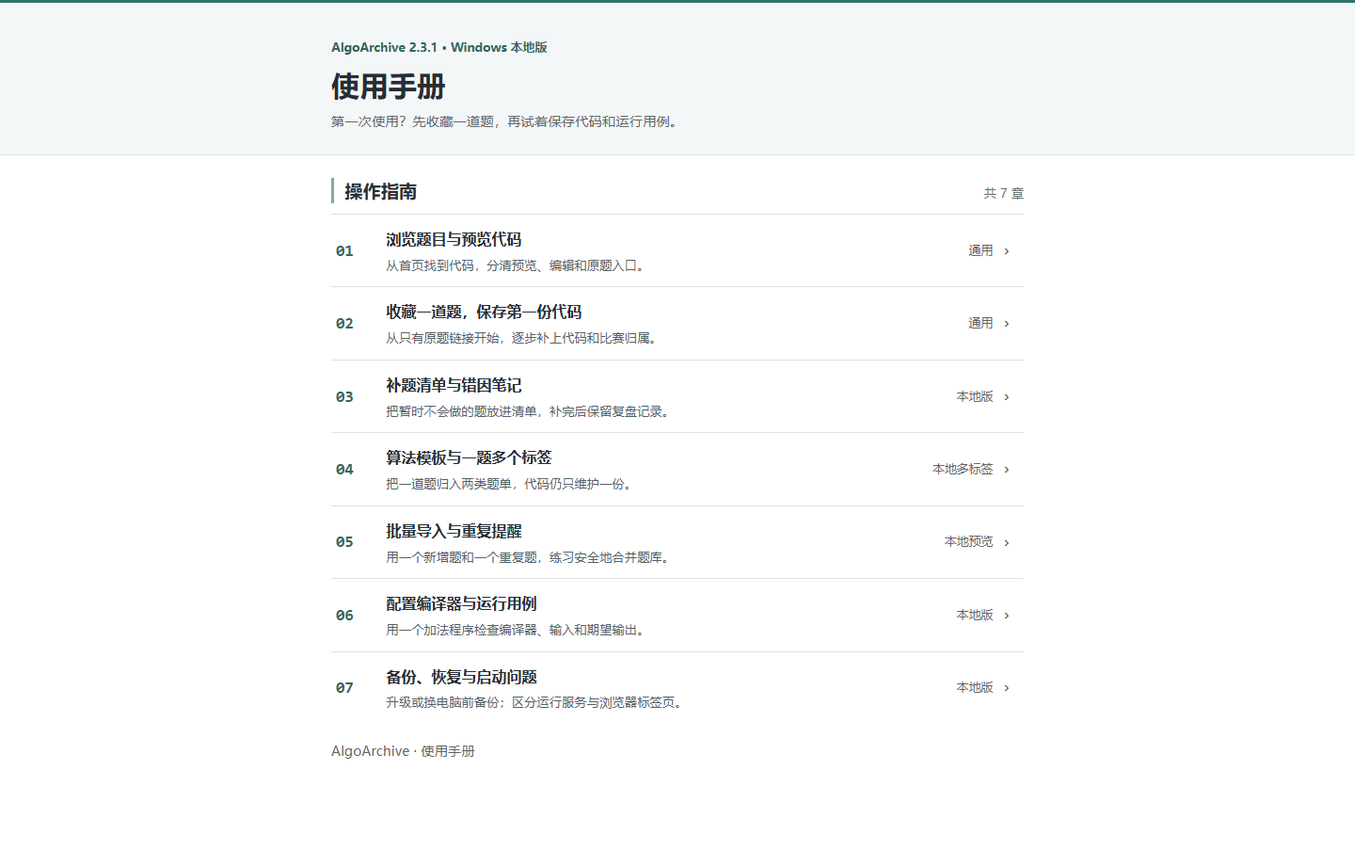
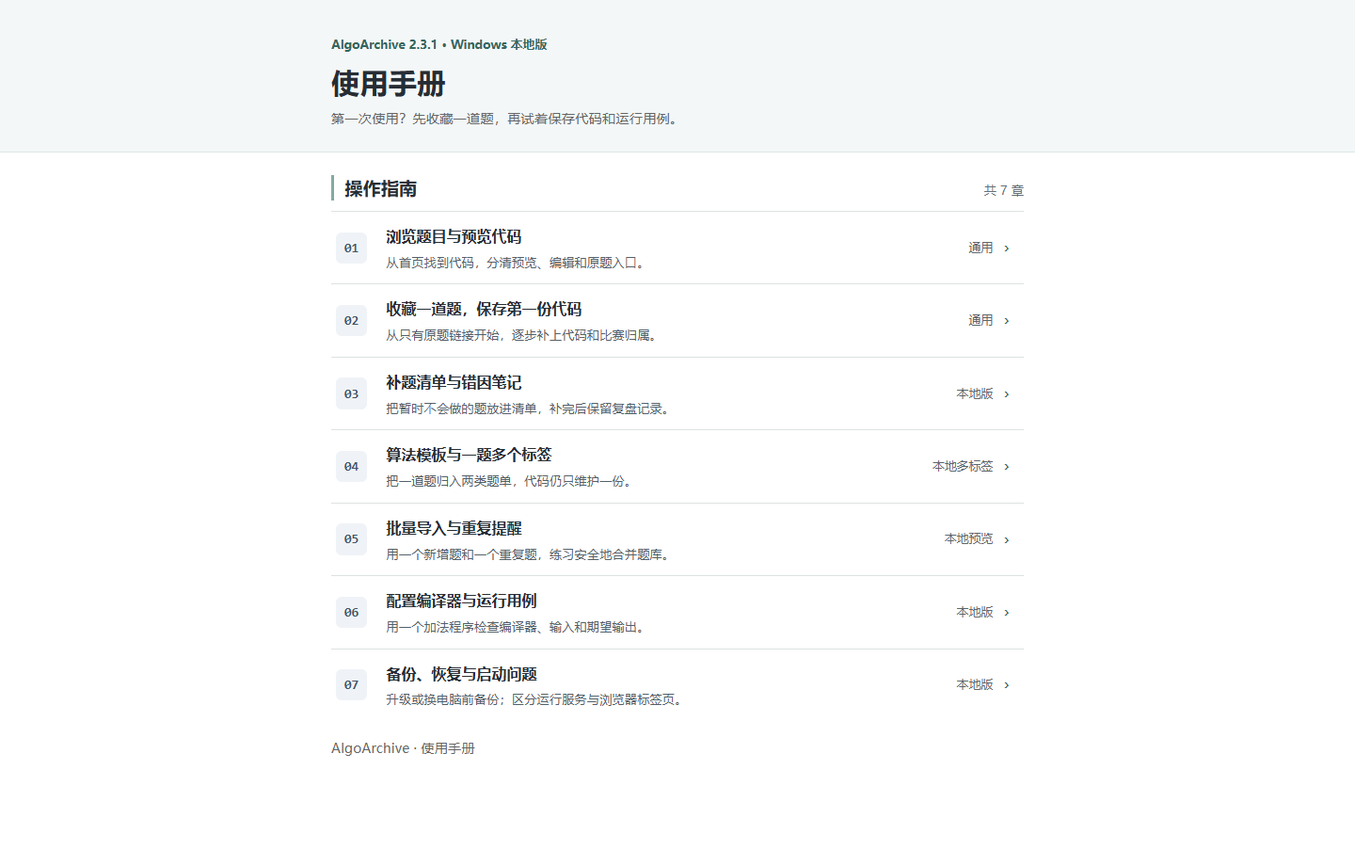
Expand the compiler walkthrough and clarify external judge boundaries

diff --git a/web/guide/test.html b/web/guide/test.html
@@ -1,11 +1,31 @@
 <!doctype html>
 <html lang="zh-CN"><head><meta charset="utf-8"><meta name="viewport" content="width=device-width, initial-scale=1">
-<title>配置编译器与运行用例 · AlgoArchive 使用手册</title><link rel="stylesheet" href="../manual.css?v=guide-2"><link rel="icon" href="../favicon-32.png"></head>
-<body><a class="skip" href="#main">跳到正文</a><header><div class="wrap"><a class="bread" href="../manual.html">‹ 使用手册</a><p class="edition">第 06 章 / 07 · 本地版</p><h1>配置编译器与运行用例</h1><p>用一个加法程序检查编译器、输入和期望输出。</p></div></header>
-<main id="main" class="wrap article"><h2>配置一次编译器</h2><p>在「设置 → 编译器」选择本机 MinGW 的 <code>bin/g++.exe</code>。下载的编译器压缩包要先完整解压；选择可执行文件后保存设置。</p><h2>运行第一组测试</h2><ol><li>在题目编辑页填入下面的 C++ 程序，或在「代码试跑」临时尝试。</li><li>添加一组用例：输入 <code>2 3</code>，期望输出 <code>5</code>。运行当前用例，查看实际输出与比较结果。</li><li>再添加输入 <code>-2 2</code>、期望输出 <code>0</code>，运行全部。题目里要保留用例时点「保存用例」；已有 CPH 数据可导入 <code>.prob</code> 文件。</li></ol><pre><code>#include &lt;iostream&gt;
+<title>配置编译器与运行用例 · AlgoArchive 使用手册</title><link rel="stylesheet" href="../manual.css?v=guide-3"><link rel="icon" href="../favicon-32.png"></head>
+<body><a class="skip" href="#main">跳到正文</a>
+<header><div class="wrap"><a class="bread" href="../manual.html">‹ 使用手册</a><p class="edition">第 06 章 / 07 · Windows 本地版</p>
+<h1>配置编译器与运行用例</h1><p>从找到 g++.exe，到亲手跑通第一组输入输出。</p></div></header>
+<main id="main" class="wrap article">
+<h2>找到真正用于编译的 g++.exe</h2>
+<p>已经用 VS Code 写 C++？可以和 AlgoArchive 共用一套 MinGW。打开 PowerShell，输入 <code>where.exe g++</code> 查看系统 PATH 里有哪些编译器。出现多个路径时，选与你的 VS Code 构建任务一致的那个；没有输出只表示它不在 PATH 中。</p>
+<p>还没有编译器时，可从项目 GitHub Release 下载单独的 MinGW-w64 压缩包。完整解压后找到 <code>mingw64\bin\g++.exe</code>。例如解压在 <code>D:\Tools</code> 下时，实际路径可能是 <code>D:\Tools\mingw64\bin\g++.exe</code>；以资源管理器里的位置为准。</p>
+<h2>在设置里保存并验证</h2>
+<ol><li>点左下角「设置」，进入编译器设置，找到「C++ 编译与运行」。已显示「可用」时，可点「复制实际路径」，确认是不是你想用的版本。</li>
+<li>在「g++ 可执行文件路径」中填入完整文件路径，不要填 ZIP、文件夹或一条编译命令。要使用 PATH 中的 g++，把路径框留空。</li>
+<li>初次配置可保留默认的 <code>gnu++14</code>。点「保存编译器设置」，检查实际路径和版本，然后点「编译能力检查」看结果。</li></ol>
+<h2>用一组小数据验证整个流程</h2>
+<p>打开左侧「代码试跑」并输入下面的程序。试跑草稿独立于题库，不必为了检查配置创建一道新题。</p>
+<pre><code>#include &lt;iostream&gt;
 int main() {
     int a, b;
     std::cin &gt;&gt; a &gt;&gt; b;
     std::cout &lt;&lt; a + b &lt;&lt; '\n';
-}</code></pre><aside><b>运行失败先看哪儿？</b>编译失败先检查编译器路径和错误行；程序能运行但结果不符，先核对输入与期望输出。真实交互题还需要交互器，固定回放只能验证那次对话。</aside></main>
-<nav class="wrap pager" aria-label="章节导航"><a rel="prev" href="import.html">‹ 上一章：批量导入与重复提醒</a><a rel="next" href="backup.html">下一章：备份、恢复与启动问题 ›</a></nav></body></html>
+}</code></pre>
+<ol><li>第一组输入填 <code>2 3</code>，期望输出填 <code>5</code>，运行当前用例。查看实际输出是否为 <code>5</code>。</li>
+<li>再添加一组：输入 <code>-2 2</code>，期望输出 <code>0</code>，运行全部。两组均通过，就验证了编译、读入、运行和输出比较。</li>
+<li>在正式题目的编辑页，点「保存用例」可供下次复测；已有的 CPH 用例可从 <code>.prob</code> 文件导入。</li></ol>
+<h2>按现象排查</h2>
+<dl><dt>显示「未找到 C++ 编译器」</dt><dd>核对填的是 <code>g++.exe</code> 文件本身。优先填写绝对路径；如果刚修改过系统 PATH，请重启本地程序再检查。</dd>
+<dt>能找到 g++，但编译提示缺少程序或 DLL</dt><dd>不要单独复制 g++.exe。重新完整解压工具链，保留 bin、lib、libexec 等目录的相对位置，再运行能力检查。</dd>
+<dt>能编译，但用例不通过</dt><dd>先读实际输出。如果题目只要一个数字，请去掉「请输入」之类的提示语，再检查换行、输入顺序和算法结果。</dd>
+<dt>在在线演示里找不到本机编译器</dt><dd>演示页可以读写示例代码，不能调用你电脑上的 g++。请在 Windows 本地版执行本章步骤。</dd></dl>
+</main><nav class="wrap pager" aria-label="章节导航"><a rel="prev" href="import.html">‹ 上一章：批量导入与重复提醒</a><a rel="next" href="backup.html">下一章：备份、恢复与启动问题 ›</a></nav></body></html>

diff --git a/web/guide/browse.html b/web/guide/browse.html
@@ -1,6 +1,9 @@
 <!doctype html>
 <html lang="zh-CN"><head><meta charset="utf-8"><meta name="viewport" content="width=device-width, initial-scale=1">
-<title>浏览题目与预览代码 · AlgoArchive 使用手册</title><link rel="stylesheet" href="../manual.css?v=guide-2"><link rel="icon" href="../favicon-32.png"></head>
+<title>浏览题目与预览代码 · AlgoArchive 使用手册</title><link rel="stylesheet" href="../manual.css?v=guide-3"><link rel="icon" href="../favicon-32.png"></head>
 <body><a class="skip" href="#main">跳到正文</a><header><div class="wrap"><a class="bread" href="../manual.html">‹ 使用手册</a><p class="edition">第 01 章 / 07 · 通用</p><h1>浏览题目与预览代码</h1><p>从首页找到代码，分清预览、编辑和原题入口。</p></div></header>
-<main id="main" class="wrap article"><h2>试一次：打开首页第一道题</h2><ol><li>回到首页，在「最近编辑」找到一道题。在线演示的第一题是 <b>Tatami Renovation</b>。</li><li>点行首的序号或这一行的空白处，代码预览会弹出。点「复制代码」可取得整份源码；按 <kbd>Esc</kbd> 或点「关闭」返回原位置。</li><li>要修改这道题，点右侧「编辑」。要阅读比赛平台的题面，点题名或「原题」。</li></ol><h2>按比赛查题</h2><p>从左侧平台或比赛进入题目列表。题名前的 A、B 等编号按比赛理解；不同比赛的 A 题并不是同一道题。查看题名和所属比赛再编辑。</p><aside><b>看到「暂无代码」？</b>这表示题库暂时只收录了题目链接，可以照常打开原题。在线演示首页的 A–F 六题都有代码，其中 F 的用例是固定交互回放。</aside><h2>通过 Virtual Judge 查题或提交</h2><p>首页或此处的 <a href="https://vjudge.net/" target="_blank" rel="noopener noreferrer">Virtual Judge ↗</a> 仅打开第三方网站。请在该站自行查题、登录和提交；AlgoArchive 与其无合作关系，不会代为抓取题目或传送你的账号、代码和用例。</p></main>
+<main id="main" class="wrap article"><h2>试一次：打开首页第一道题</h2><ol><li>回到首页，在「最近编辑」找到一道题。在线演示的第一题是 <b>Tatami Renovation</b>。</li><li>点行首的序号或这一行的空白处，代码预览会弹出。点「复制代码」可取得整份源码；按 <kbd>Esc</kbd> 或点「关闭」返回原位置。</li><li>要修改这道题，点右侧「编辑」。要阅读比赛平台的题面，点题名或「原题」。</li></ol><h2>按比赛查题</h2><p>从左侧平台或比赛进入题目列表。题名前的 A、B 等编号按比赛理解；不同比赛的 A 题并不是同一道题。查看题名和所属比赛再编辑。</p><aside><b>看到「暂无代码」？</b>这表示题库暂时只收录了题目链接，可以照常打开原题。在线演示首页的 A–F 六题都有代码，其中 F 的用例是固定交互回放。</aside>
+<h2>前往 Virtual Judge 查题或提交</h2>
+<p>首页的 <a href="https://vjudge.net/" target="_blank" rel="noopener noreferrer">Virtual Judge ↗</a> 会在新标签页打开第三方官网，原来的编辑页保持打开。请在该站自行登录、查找题目、选择语言并提交代码；评测结果也在该站查看。</p>
+<p>AlgoArchive 与 Virtual Judge 无隶属、合作或授权关系。入口不会附带当前题目、源码、用例或账号凭据，也不会自动抓题、代交代码或把评测结果写回本地补题状态。</p></main>
 <nav class="wrap pager" aria-label="章节导航"><a href="../manual.html">‹ 手册目录</a><a rel="next" href="archive.html">下一章：收藏一道题，保存第一份代码 ›</a></nav></body></html>

diff --git a/web/app.js b/web/app.js
@@ -555,7 +555,7 @@
     main.innerHTML = pageHeader('算法档案','在本地整理比赛、题目与算法模板，让积累清晰可见。',addContestButton()+addProblemButton()+addAlgorithmButton(),'WORKSPACE / 本地工作空间') +
       `<section class="stats-grid" aria-label="题库统计"><article class="stat-card"><div class="stat-label">完整比赛</div><span class="stat-mark">▦</span><div class="stat-value">${state.contests.length}</div><div class="stat-note">已保存的完整比赛</div></article><article class="stat-card"><div class="stat-label">全部题目</div><span class="stat-mark blue">≡</span><div class="stat-value">${state.problems.length}</div><div class="stat-note">统一题库，实时同步</div></article><article class="stat-card"><div class="stat-label">Codeforces</div><span class="stat-mark platform-stat-mark">${platformLogo('codeforces')}</span><div class="stat-value">${cf}</div><div class="stat-note">${platformContestCount('codeforces')} 场比赛 · ${cf} 道题目</div></article><article class="stat-card"><div class="stat-label">AtCoder</div><span class="stat-mark platform-stat-mark">${platformLogo('atcoder')}</span><div class="stat-value">${ac}</div><div class="stat-note">${platformContestCount('atcoder')} 场比赛 · ${ac} 道题目</div></article><article class="stat-card"><div class="stat-label">AcWing</div><span class="stat-mark platform-stat-mark">${platformLogo('acwing')}</span><div class="stat-value">${aw}</div><div class="stat-note">${platformContestCount('acwing')} 场比赛 · ${aw} 道题目</div></article><article class="stat-card"><div class="stat-label">洛谷</div><span class="stat-mark platform-stat-mark">${platformLogo('luogu')}</span><div class="stat-value">${lg}</div><div class="stat-note">${platformContestCount('luogu')} 场比赛 · ${lg} 道题目</div></article><article class="stat-card"><div class="stat-label">牛客</div><span class="stat-mark platform-stat-mark">${platformLogo('niuke')}</span><div class="stat-value">${nc}</div><div class="stat-note">${platformContestCount('niuke')} 场比赛 · ${nc} 道题目</div></article></section>` +
       `<section class="home-intro"><span class="home-intro-icon" aria-hidden="true">{ }</span><div class="intro-copy"><h2>一份代码，多种整理方式。</h2><p>比赛中的题目会自动收录到全部题目；从任意入口修改，始终保存同一份解答。</p></div><button class="btn" data-nav="problems">打开全部题目 <span aria-hidden="true">→</span></button></section>` +
-      `<aside class="external-judge" aria-label="第三方评测"><a href="https://vjudge.net/" target="_blank" rel="noopener noreferrer">Virtual Judge ↗</a><span>第三方评测网站，与 AlgoArchive 无合作关系。查题与提交请前往该站自行操作。</span></aside>`+
+      `<aside class="external-judge" aria-label="第三方在线评测服务"><a href="https://vjudge.net/" target="_blank" rel="noopener noreferrer">Virtual Judge ↗</a><span>第三方网站，与 AlgoArchive 无隶属、合作或授权关系。登录、查题与提交均由你在该站完成。</span></aside>`+
       (localStudy?studyQueue():'')+
       `<section class="home-section recent-section"><div class="section-head">${sectionTitle('document','最近编辑')}<a href="#problems" data-nav="problems">查看全部 →</a></div><div class="panel">${problemTable(sortedProblems(state.problems).slice(0,6))}</div></section>`+
       `<section class="home-section algorithm-home-section"><div class="section-head">${sectionTitle('layers','最近的算法模板')}<a href="#algorithms" data-nav="algorithms">管理算法 →</a></div>${algorithmCards(sortedAlgorithms(state.algorithms).slice(0,3))}</section>`+

diff --git a/web/manual.css b/web/manual.css
@@ -2,7 +2,7 @@
 html { color: #272d34; background: #fff; font: 16px/1.8 system-ui, "Microsoft YaHei", sans-serif; }
 body { margin: 0; }
 .wrap { width: min(100% - 40px, 46rem); margin-inline: auto; }
-header { background: #f3f7f8; border-top: 3px solid #31736b; border-bottom: 1px solid #dee6e5; }
+header { background: #f3f7f8; border-bottom: 1px solid #dee6e5; }
 header .wrap { padding: 28px 0 22px; }
 h1 { margin: 0; font-size: 1.9rem; line-height: 1.4; }
 header p, footer { color: #666; font-size: .9rem; }
@@ -18,14 +18,21 @@ nav strong { display: block; margin-bottom: 3px; }
 .directory a { display:grid; grid-template-columns:2.6em minmax(0,1fr) auto 1em; gap:12px; align-items:center; padding:12px 5px; border-top:1px solid #dce3e2; text-decoration:none; color:inherit; }
 .directory a:hover,.directory a:focus-visible { background:#f1f6f5; }
 .directory small { display:block; color:#53616a; line-height:1.55; }
-.num { font:600 1.05rem Consolas,monospace; }
+.num { display:grid; place-items:center; width:2.3em; height:2.3em; border-radius:6px; background:#eff3f7; color:#3e566d; font:600 .9rem Consolas,monospace; }
 .mode { color:#5c666d; }
 .arrow,.bread { color:#35665e; }
 .article { padding:12px 0 22px; }
 .article h2 { margin-top:24px; }
 .article aside { margin-top:18px; padding:12px 16px; background:#faf5e9; border-left:3px solid #ba9547; }
-.article pre { overflow-x:auto; padding:14px; background:#f2f5f6; line-height:1.5; }
-.article pre code { padding:0; }
+.article ol { list-style:none; counter-reset:steps; padding:0; }
+.article li { position:relative; padding:4px 0 7px 2.3em; counter-increment:steps; }
+.article li::before { content:counter(steps); position:absolute; left:0; top:.4em; display:grid; place-items:center; width:1.65em; height:1.65em; background:#e9f2ee; color:#356359; border-radius:50%; font-size:.84rem; font-weight:650; }
+.article pre { overflow-x:auto; padding:16px 18px; border-radius:6px; background:#24333e; color:#eff5f6; line-height:1.6; }
+.article pre code { padding:0; background:transparent; }
+.article :not(pre) > code { overflow-wrap:anywhere; }
+.article dl { border-block:1px solid #dce3e2; padding:4px 0 12px; }
+.article dt { font-weight:650; margin-top:10px; }
+.article dd { margin:2px 0 0; color:#47535d; }
 .article figure { margin:24px 0 0; }
 .article figure img { display:block; width:100%; height:auto; border:1px solid #dce3e2; }
 .pager { flex-wrap:wrap; border-top:1px solid #dce3e2; border-bottom:0; }
@@ -46,7 +53,7 @@ footer { padding: 16px 0 30px; }
 .skip:focus { top: 4px; }
 @media (max-width: 540px) {
   .wrap { width: calc(100% - 32px); }
-  .directory a { grid-template-columns:1.6em minmax(0,1fr) auto; gap:8px; }
+  .directory a { grid-template-columns:2.3em minmax(0,1fr) auto; gap:8px; }
   .directory .arrow { display:none; }
   header .wrap { padding-top: 22px; }
 }

diff --git a/web/guide/import.html b/web/guide/import.html
@@ -1,6 +1,6 @@
 <!doctype html>
 <html lang="zh-CN"><head><meta charset="utf-8"><meta name="viewport" content="width=device-width, initial-scale=1">
-<title>批量导入与重复提醒 · AlgoArchive 使用手册</title><link rel="stylesheet" href="../manual.css?v=guide-2"><link rel="icon" href="../favicon-32.png"></head>
+<title>批量导入与重复提醒 · AlgoArchive 使用手册</title><link rel="stylesheet" href="../manual.css?v=guide-3"><link rel="icon" href="../favicon-32.png"></head>
 <body><a class="skip" href="#main">跳到正文</a><header><div class="wrap"><a class="bread" href="../manual.html">‹ 使用手册</a><p class="edition">第 05 章 / 07 · 本地预览</p><h1>批量导入与重复提醒</h1><p>用一个新增题和一个重复题，练习安全地合并题库。</p></div></header>
 <main id="main" class="wrap article"><h2>先看预览，再决定是否导入</h2><ol><li>在「全部题目」点「导入」，下载示例 JSON。按示例填写平台、题名、原题链接和需要的代码或用例；每批最多 200 题。</li><li>选择文件并预览。准备两条记录来试：一条沿用库中某题的原题链接，另一条用全新的题号和链接。查看哪些被标为已有、哪些是新增。</li><li>已有题默认跳过。只需要改题面资料时选「只更新资料」，核对变更后再确认。只有确实要覆盖源代码或用例时，才选择相应的更新方式。</li></ol><h2>核对导入结果</h2><p>重新打开原题查看源码和用例，再搜索新题。前者应保留你选择保留的部分；后者只出现一次。若提示记录已变化，重新预览，不要重复提交旧预览。</p><aside><b>别仅靠 A、B 判断重复。</b>不同比赛可能都从 A 开始编号。无法唯一匹配的行先跳过，核对原题链接和比赛后再导入。</aside><figure><a href="media/import.webp"><img src="media/import.webp" loading="lazy" alt="本地导入预览，逐行选择是否更新"></a><figcaption>本地导入预览，逐行选择是否更新 · 点击图片查看大图</figcaption></figure></main>
 <nav class="wrap pager" aria-label="章节导航"><a rel="prev" href="tags.html">‹ 上一章：算法模板与一题多个标签</a><a rel="next" href="test.html">下一章：配置编译器与运行用例 ›</a></nav></body></html>

diff --git a/web/guide/review.html b/web/guide/review.html
@@ -1,6 +1,6 @@
 <!doctype html>
 <html lang="zh-CN"><head><meta charset="utf-8"><meta name="viewport" content="width=device-width, initial-scale=1">
-<title>补题清单与错因笔记 · AlgoArchive 使用手册</title><link rel="stylesheet" href="../manual.css?v=guide-2"><link rel="icon" href="../favicon-32.png"></head>
+<title>补题清单与错因笔记 · AlgoArchive 使用手册</title><link rel="stylesheet" href="../manual.css?v=guide-3"><link rel="icon" href="../favicon-32.png"></head>
 <body><a class="skip" href="#main">跳到正文</a><header><div class="wrap"><a class="bread" href="../manual.html">‹ 使用手册</a><p class="edition">第 03 章 / 07 · 本地版</p><h1>补题清单与错因笔记</h1><p>把暂时不会做的题放进清单，补完后保留复盘记录。</p></div></header>
 <main id="main" class="wrap article"><h2>练习：记录一个二分边界问题</h2><ol><li>在题目行点「编辑」，把「补题状态」从「未做」改为「待补」。没有源码的题也可以这样标记。</li><li>在错因笔记中写下可复查的一句话，例如「找最后一个 ≤ x 的位置时，区间只剩两个数会死循环」。保存题目。</li><li>回首页，在补题清单选择所属比赛。确认这道题出现在列表里。</li></ol><h2>补完后怎么找回？</h2><p>回编辑页，把状态改为「已通过」并保存。它会移出待补队列；在「全部题目」按状态筛选，仍能找到原代码和笔记。</p><aside><b>状态由你决定。</b>运行本地用例不会替你更改状态，这个标记也不会向比赛平台提交代码。</aside><figure><a href="media/study.webp"><img src="media/study.webp" loading="lazy" alt="本地首页的待补清单和比赛筛选"></a><figcaption>本地首页的待补清单和比赛筛选 · 点击图片查看大图</figcaption></figure></main>
 <nav class="wrap pager" aria-label="章节导航"><a rel="prev" href="archive.html">‹ 上一章：收藏一道题，保存第一份代码</a><a rel="next" href="tags.html">下一章：算法模板与一题多个标签 ›</a></nav></body></html>

diff --git a/web/guide/backup.html b/web/guide/backup.html
@@ -1,6 +1,6 @@
 <!doctype html>
 <html lang="zh-CN"><head><meta charset="utf-8"><meta name="viewport" content="width=device-width, initial-scale=1">
-<title>备份、恢复与启动问题 · AlgoArchive 使用手册</title><link rel="stylesheet" href="../manual.css?v=guide-2"><link rel="icon" href="../favicon-32.png"></head>
+<title>备份、恢复与启动问题 · AlgoArchive 使用手册</title><link rel="stylesheet" href="../manual.css?v=guide-3"><link rel="icon" href="../favicon-32.png"></head>
 <body><a class="skip" href="#main">跳到正文</a><header><div class="wrap"><a class="bread" href="../manual.html">‹ 使用手册</a><p class="edition">第 07 章 / 07 · 本地版</p><h1>备份、恢复与启动问题</h1><p>升级或换电脑前备份；区分运行服务与浏览器标签页。</p></div></header>
 <main id="main" class="wrap article"><h2>保留一个可以恢复的备份</h2><ol><li>打开「设置 → 数据管理」，创建完整 ZIP 备份，记下文件位置与生成时间。</li><li>换电脑时，把 ZIP 复制到新电脑，在本地版导入备份。恢复会替换当前题库；如果目标电脑已有数据，先给它也做一份备份。</li><li>恢复后核对题目数，打开一题检查源码、用例、补题状态和错因笔记。</li></ol><h2>关闭页面后，程序还在运行吗？</h2><p>浏览器标签页只是界面。双击桌面程序时，已有服务会复用；没有可见服务窗口时可出现一个状态窗口。关闭状态窗口不会关闭后台服务。需要退出时，在「设置 → 关于与诊断」停止服务。</p><aside><b>升级后看不到原题库？</b>先在设置里核对当前数据目录。程序目录和题库目录可能不同，不要把刚解压的安装目录当成数据目录恢复。</aside></main>
 <nav class="wrap pager" aria-label="章节导航"><a rel="prev" href="test.html">‹ 上一章：配置编译器与运行用例</a><a href="../manual.html">返回目录 ›</a></nav></body></html>

diff --git a/web/guide/archive.html b/web/guide/archive.html
@@ -1,6 +1,6 @@
 <!doctype html>
 <html lang="zh-CN"><head><meta charset="utf-8"><meta name="viewport" content="width=device-width, initial-scale=1">
-<title>收藏一道题，保存第一份代码 · AlgoArchive 使用手册</title><link rel="stylesheet" href="../manual.css?v=guide-2"><link rel="icon" href="../favicon-32.png"></head>
+<title>收藏一道题，保存第一份代码 · AlgoArchive 使用手册</title><link rel="stylesheet" href="../manual.css?v=guide-3"><link rel="icon" href="../favicon-32.png"></head>
 <body><a class="skip" href="#main">跳到正文</a><header><div class="wrap"><a class="bread" href="../manual.html">‹ 使用手册</a><p class="edition">第 02 章 / 07 · 通用</p><h1>收藏一道题，保存第一份代码</h1><p>从只有原题链接开始，逐步补上代码和比赛归属。</p></div></header>
 <main id="main" class="wrap article"><h2>从原题链接开始</h2><ol><li>在左侧打开目标平台，点「添加题目」。要加入已有比赛，先进入这场比赛，再从比赛中添加。</li><li>填题名、题号和原题链接。平台可选内置项，也可以输入自己的平台名。还没写解答时，代码可以留空。</li><li>选择代码语言，粘贴源码，然后点「保存题目」。也可以在编辑页用 <kbd>Ctrl</kbd> + <kbd>S</kbd> 保存。</li></ol><h2>确认保存到了哪儿</h2><p>回到刚才的平台或比赛，找到题目并点序号。预览里应当是刚保存的代码。点题名验证原题地址，点「编辑」继续写。</p><aside><b>平台链接和题目链接不同。</b>平台标题旁的官网入口指向平台首页；题目行里的「复制链接」复制的是该题的原题地址。</aside></main>
 <nav class="wrap pager" aria-label="章节导航"><a rel="prev" href="browse.html">‹ 上一章：浏览题目与预览代码</a><a rel="next" href="review.html">下一章：补题清单与错因笔记 ›</a></nav></body></html>

diff --git a/web/guide/tags.html b/web/guide/tags.html
@@ -1,6 +1,6 @@
 <!doctype html>
 <html lang="zh-CN"><head><meta charset="utf-8"><meta name="viewport" content="width=device-width, initial-scale=1">
-<title>算法模板与一题多个标签 · AlgoArchive 使用手册</title><link rel="stylesheet" href="../manual.css?v=guide-2"><link rel="icon" href="../favicon-32.png"></head>
+<title>算法模板与一题多个标签 · AlgoArchive 使用手册</title><link rel="stylesheet" href="../manual.css?v=guide-3"><link rel="icon" href="../favicon-32.png"></head>
 <body><a class="skip" href="#main">跳到正文</a><header><div class="wrap"><a class="bread" href="../manual.html">‹ 使用手册</a><p class="edition">第 04 章 / 07 · 本地多标签</p><h1>算法模板与一题多个标签</h1><p>把一道题归入两类题单，代码仍只维护一份。</p></div></header>
 <main id="main" class="wrap article"><h2>先准备算法分类</h2><p>打开「算法模板」，创建或选择分类，例如「二分」和「前缀和」。分类用于整理题目，分类里的代码模板适合保存可复用的写法。</p><h2>给一道题贴两个标签</h2><ol><li>回到题目编辑页，在算法标签处勾选「二分」和「前缀和」。</li><li>保存题目，分别进入这两个算法分类，确认两边都能看到同一题。</li><li>如果后来发现分类不合适，回题目编辑页取消其中一个标签并保存。</li></ol><aside><b>不用复制题目。</b>改动源码后，两处看到的都是同一份解答。取消标签只解除分类关系，不会删除题目。</aside><p>在线演示可浏览模板、编辑示例；一题关联多个算法是 Windows 本地版功能。</p></main>
 <nav class="wrap pager" aria-label="章节导航"><a rel="prev" href="review.html">‹ 上一章：补题清单与错因笔记</a><a rel="next" href="import.html">下一章：批量导入与重复提醒 ›</a></nav></body></html>

diff --git a/web/manual.html b/web/manual.html
@@ -1,6 +1,6 @@
 <!doctype html>
 <html lang="zh-CN"><head><meta charset="utf-8"><meta name="viewport" content="width=device-width, initial-scale=1">
-<title>目录 · AlgoArchive 使用手册</title><link rel="stylesheet" href="manual.css?v=guide-2"><link rel="icon" href="favicon-32.png"></head>
+<title>目录 · AlgoArchive 使用手册</title><link rel="stylesheet" href="manual.css?v=guide-3"><link rel="icon" href="favicon-32.png"></head>
 <body><a class="skip" href="#main">跳到正文</a><header><div class="wrap"><p class="edition">AlgoArchive 2.3.1 · Windows 本地版</p><h1>使用手册</h1><p class="intro">第一次使用？先收藏一道题，再试着保存代码和运行用例。</p></div></header>
 <main id="main" class="wrap"><div class="index-head"><h2>操作指南</h2><span>共 7 章</span></div><nav class="directory" aria-label="手册目录">
 <a href="guide/browse.html"><span class="num">01</span><span><strong>浏览题目与预览代码</strong><small>从首页找到代码，分清预览、编辑和原题入口。</small></span><span class="mode">通用</span><span class="arrow" aria-hidden="true">›</span></a>

diff --git a/web/index.html b/web/index.html
@@ -13,7 +13,7 @@
 <link rel="stylesheet" href="/codex-theme.css?v=20261115-card-colors">
 <link rel="stylesheet" href="/mobile.css?v=20261030-platform-normalize">
 <link rel="stylesheet" href="/workspace-updates.css?v=2.3.1-layout3">
-<script src="/app.js?v=2.3.1-guide2" defer></script>
+<script src="/app.js?v=2.3.1-vjudge" defer></script>
 </head>
 <body>
 <div class="app-shell">
